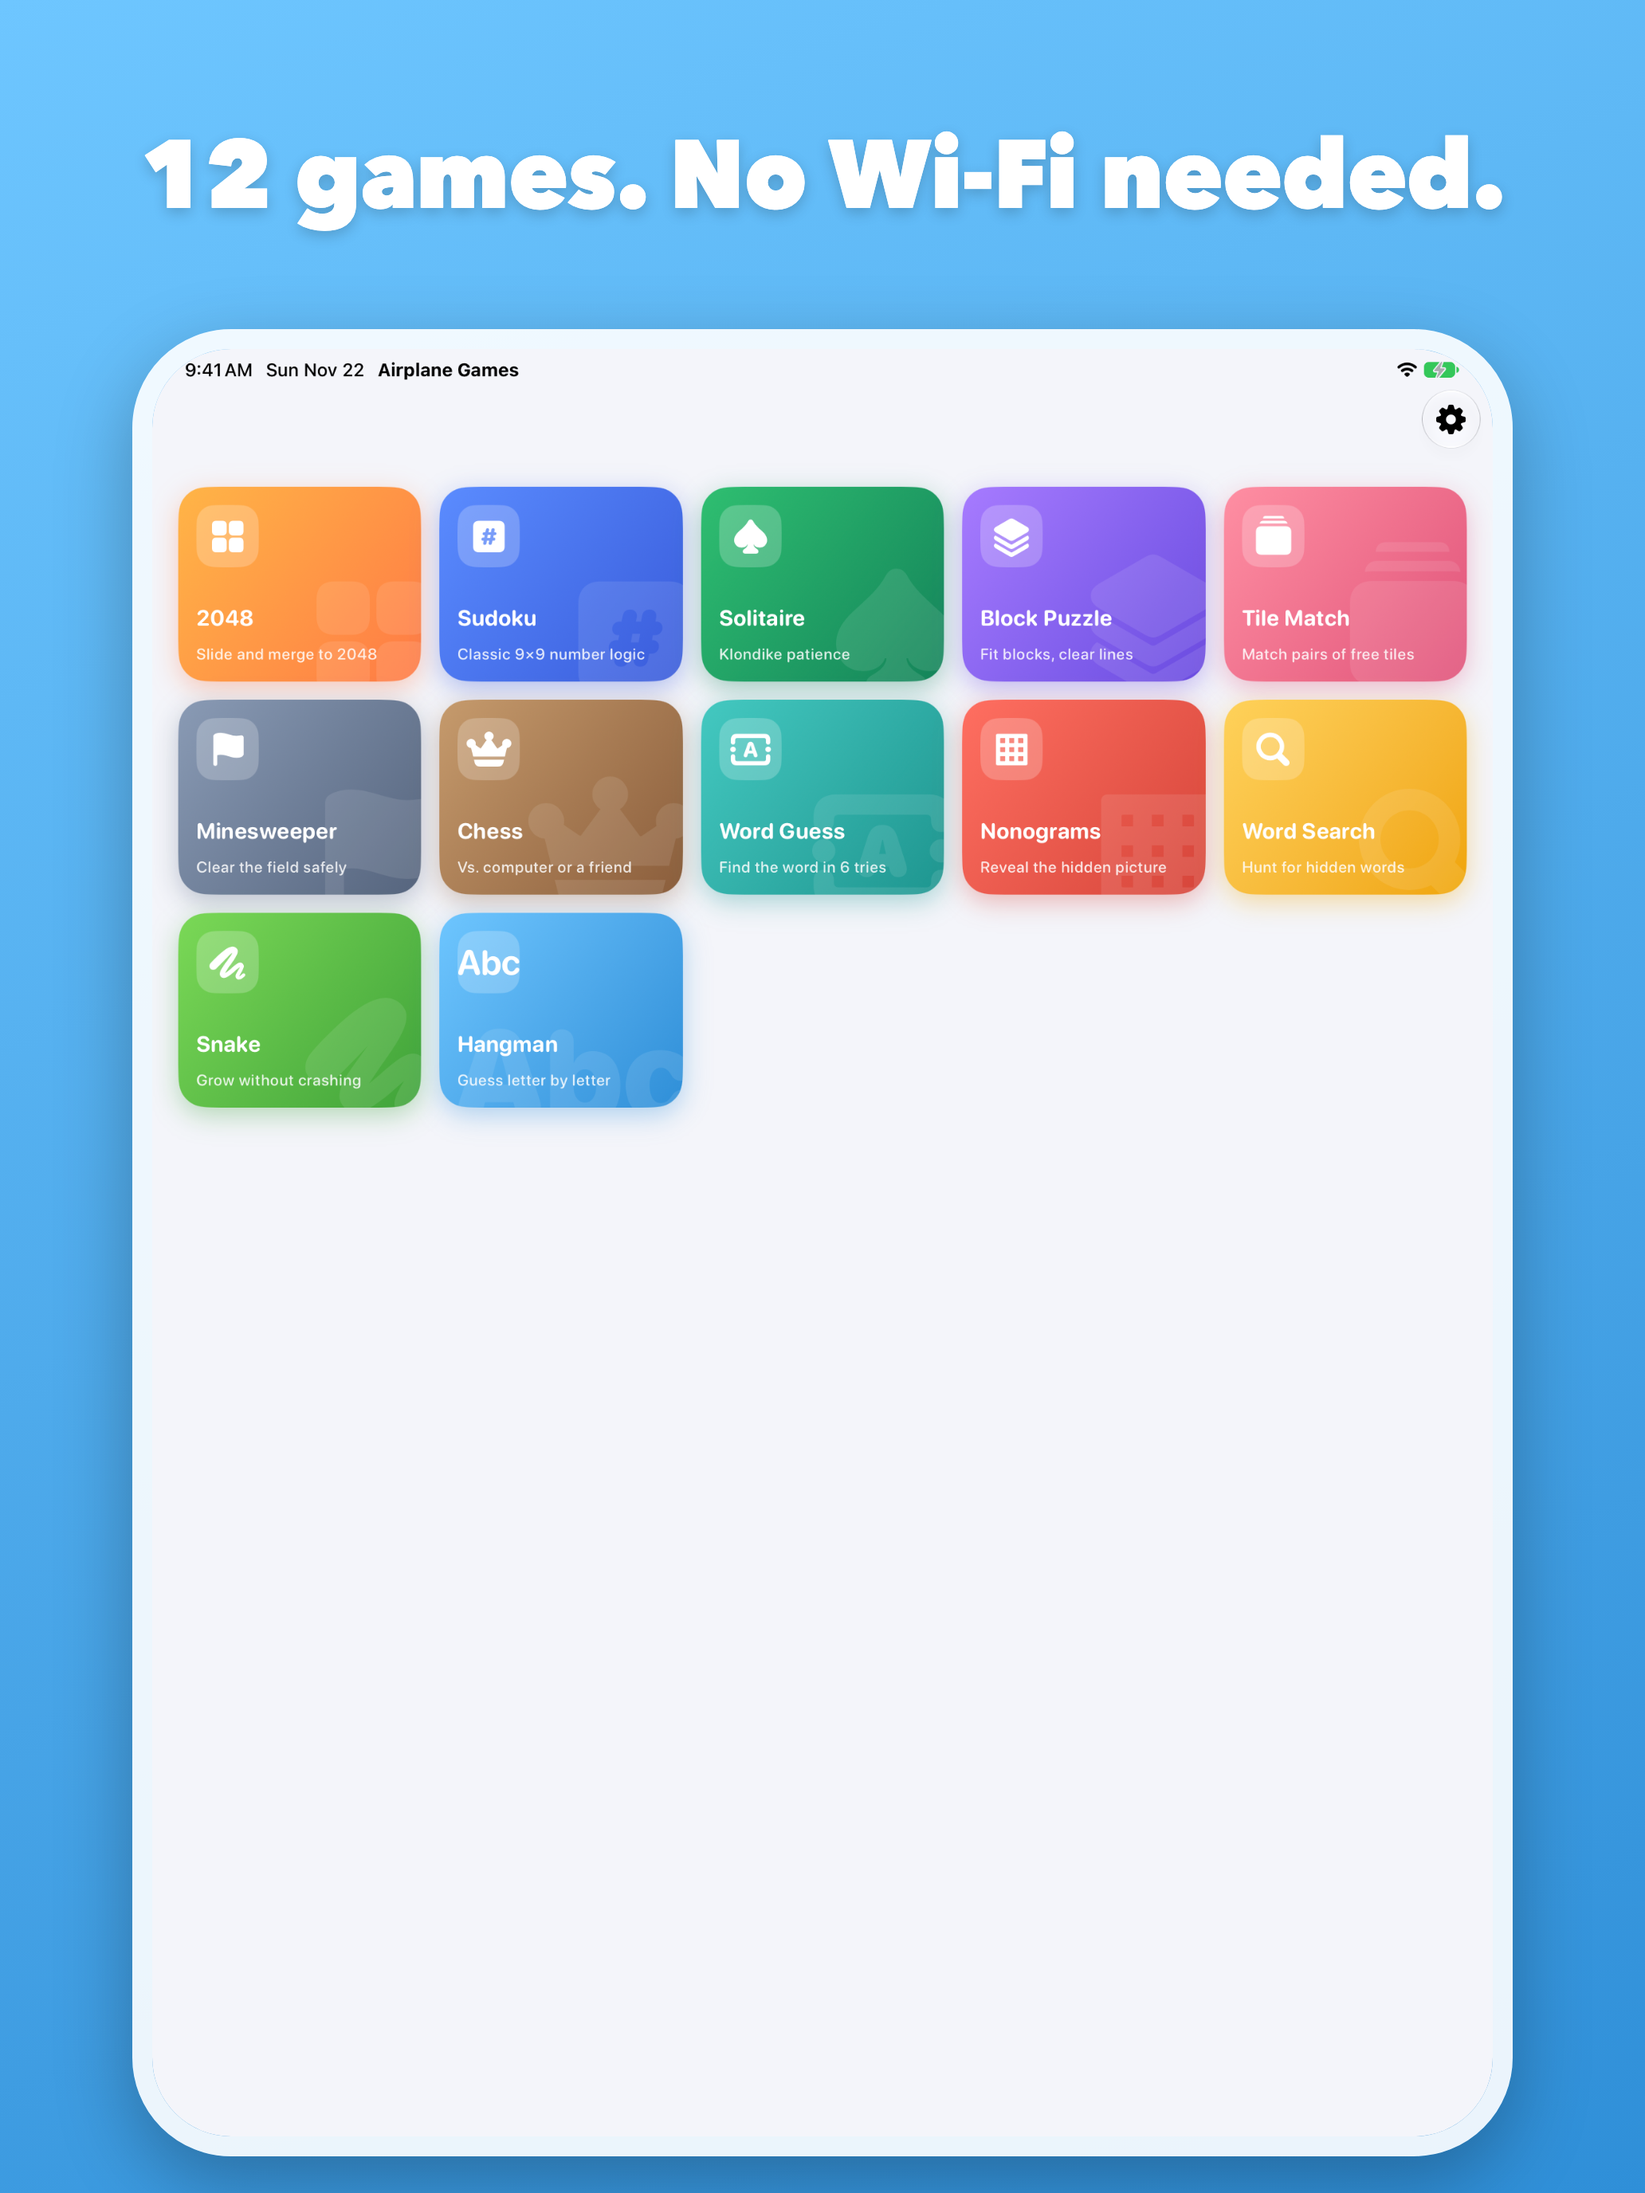
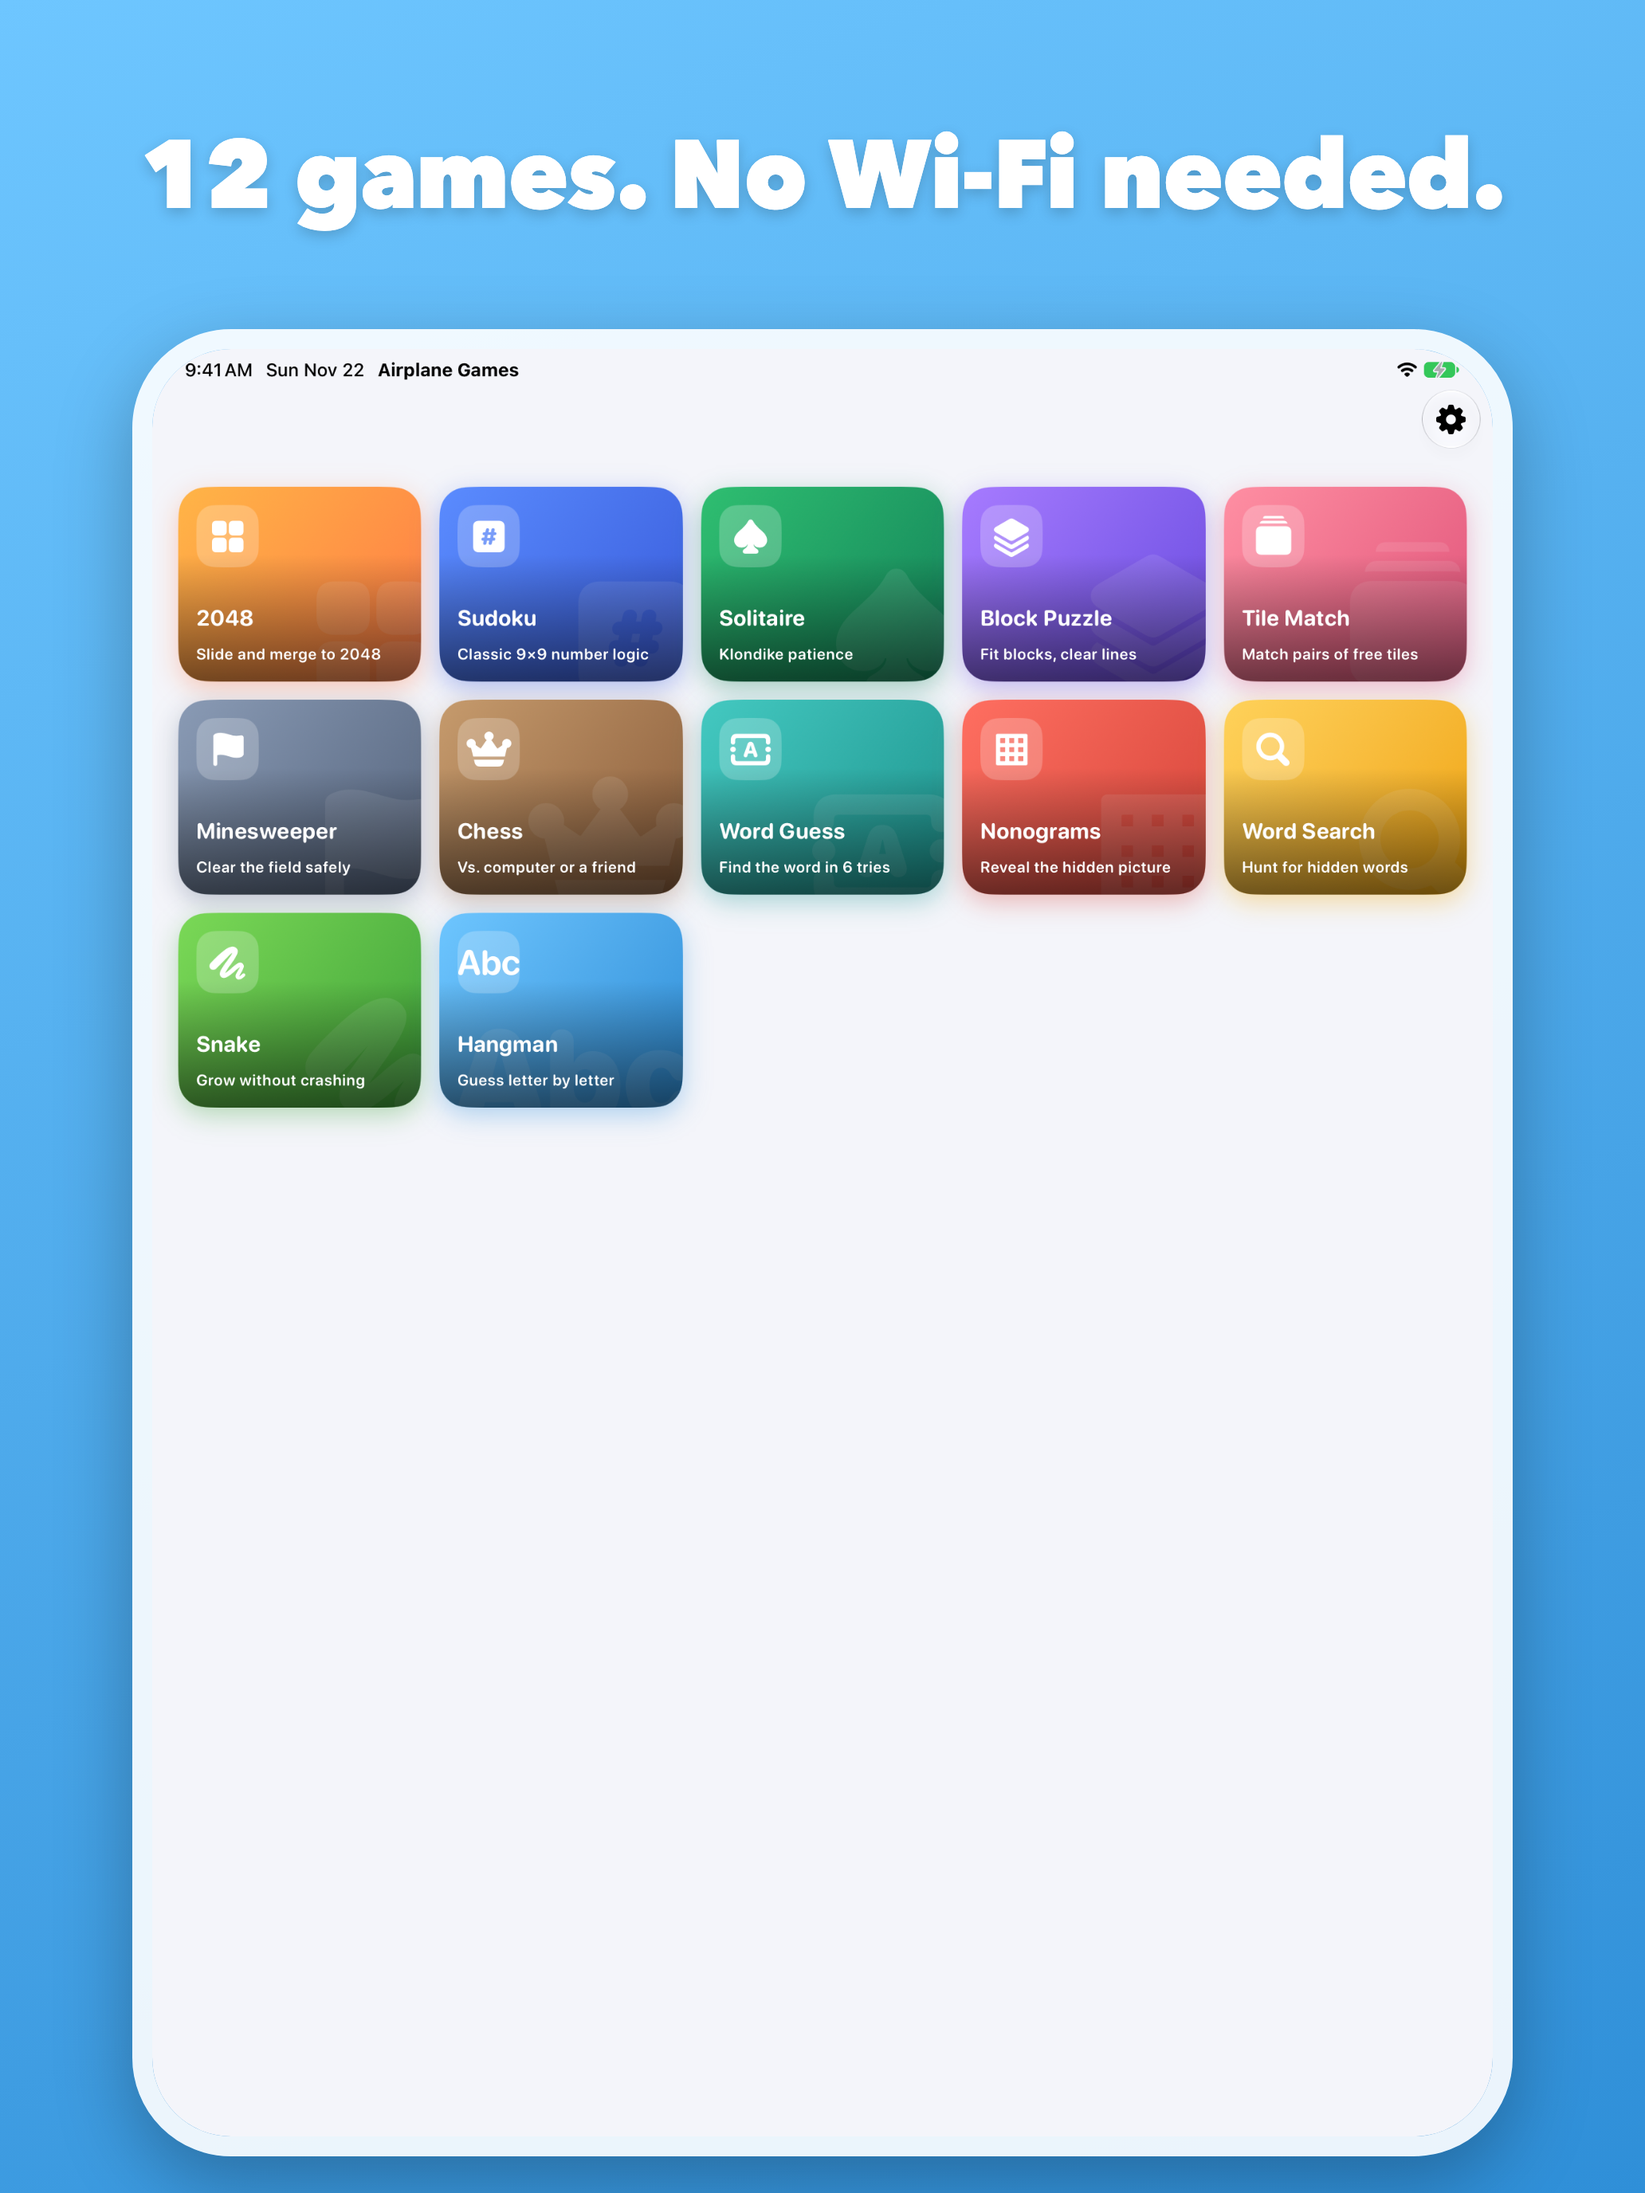
Accessibility: readable home cards, Differentiate Without Color, audit test
- Home cards darken toward the bottom so white titles reach 3:1 and captions 4.5:1
  (WCAG AA) on every card, including yellow and orange.
- "Differentiate Without Color": Word Guess tiles add a check (right spot) or arrows
  (wrong spot); Sudoku conflicts get an underline. DEBUG -differentiateWithoutColor
  previews it in the simulator.
- Snake's speed label and the About link (VoiceOver: "Source code on GitHub") fixed.
- AccessibilityAuditTests runs Xcode's audit on home, Settings, About and all 12 games;
  it fails on VoiceOver blockers and attaches the full report for each screen.
- Game guide checklist covers color-independence, cancelled gestures and the audit.

Changed region(s): [[0.093, 0.3438, 0.8992, 0.4062], [0.093, 0.25, 0.8992, 0.3125], [0.093, 0.4375, 0.4341, 0.5312]]

diff --git a/AirplaneModeGamesUITests/AccessibilityAuditTests.swift b/AirplaneModeGamesUITests/AccessibilityAuditTests.swift
@@ -1,0 +1,58 @@
+import XCTest
+
+/// Runs Xcode's accessibility audit on every screen and attaches each screen's findings to the
+/// result bundle ("a11y-<screen>").
+///
+/// Fails on issues that block VoiceOver users (missing or unreadable labels, unreachable
+/// elements, broken actions). Contrast, Dynamic Type, clipping and hit-area findings are only
+/// reported: game boards keep fixed sizes on purpose so they fit, disabled controls are dimmed
+/// on purpose, and the pixel-sampled contrast check is unreliable over decorative art.
+/// Set TEST_RUNNER_AUDIT_REPORT=1 to report everything without failing.
+@MainActor
+final class AccessibilityAuditTests: XCTestCase {
+    private var report: Bool { ProcessInfo.processInfo.environment["AUDIT_REPORT"] == "1" }
+
+    private func audit(_ app: XCUIApplication, _ screen: String) throws {
+        var lines: [String] = []
+        try app.performAccessibilityAudit { issue in
+            let element = issue.element.map { "\($0.elementType.rawValue) '\($0.identifier)' '\($0.label)'" } ?? "-"
+            lines.append("A11Y [\(screen)] \(issue.auditType.rawValue) \(issue.compactDescription) :: \(element)")
+            let reviewedByHand: XCUIAccessibilityAuditType = [.contrast, .dynamicType, .textClipped, .hitRegion]
+            return self.report || reviewedByHand.contains(issue.auditType)   // true = don't fail
+        }
+        let attachment = XCTAttachment(string: lines.joined(separator: "\n"))
+        attachment.name = "a11y-\(screen)"
+        attachment.lifetime = .keepAlways
+        add(attachment)
+    }
+
+    func testHomeAndSettings() throws {
+        let app = XCUIApplication()
+        app.launchArguments = ["-uiTesting"]
+        app.launch()
+        XCTAssertTrue(app.buttons["game.twentyFortyEight"].waitForExistence(timeout: 5))
+        try audit(app, "home")
+        app.buttons["settingsButton"].tap()
+        XCTAssertTrue(app.navigationBars["Settings"].waitForExistence(timeout: 3))
+        try audit(app, "settings")
+        app.buttons["aboutLink"].tap()
+        XCTAssertTrue(app.navigationBars["About"].waitForExistence(timeout: 3))
+        try audit(app, "about")
+    }
+
+    func testEveryGame() throws {
+        let games = ["twentyFortyEight", "sudoku", "solitaire", "blocks", "tileMatch", "minesweeper",
+                     "chess", "wordGuess", "nonograms", "wordSearch", "snake", "hangman"]
+        for game in games {
+            let app = XCUIApplication()
+            app.launchArguments = ["-uiTesting", "-openGame", game]
+            app.launch()
+            XCTAssertTrue(app.buttons["gameMenu"].waitForExistence(timeout: 10), game)
+            let cancel = app.buttons["Cancel"]
+            if cancel.waitForExistence(timeout: 1) { cancel.tap() }
+            sleep(1)
+            try audit(app, game)
+            app.terminate()
+        }
+    }
+}

diff --git a/AirplaneModeGames/Games/WordGuess/WordGuessView.swift b/AirplaneModeGames/Games/WordGuess/WordGuessView.swift
@@ -365,6 +365,8 @@ private struct LetterTile: View {
 
     @State private var angle: Double = 0
     @State private var showsResult: Bool
+    /// "Differentiate Without Color": add a shape to each result so color isn't the only signal.
+    @Environment(\.differentiateWithoutColor) private var differentiateWithoutColor
     @State private var pop = 0
 
     init(letter: Character?, state: WordGuess.LetterState?, revealDelay: Double, bounceTrigger: Int,
@@ -380,6 +382,15 @@ private struct LetterTile: View {
         _showsResult = State(initialValue: state != nil)
     }
 
+    /// Right letter, right spot: a check. Right letter, wrong spot: arrows. Not in the word: none.
+    static func symbol(_ state: WordGuess.LetterState) -> String? {
+        switch state {
+        case .correct: "checkmark"
+        case .present: "arrow.left.arrow.right"
+        default: nil
+        }
+    }
+
     var body: some View {
         let revealed = showsResult ? state : nil
         ZStack {
@@ -393,6 +404,15 @@ private struct LetterTile: View {
                     .font(.system(size: size * 0.52, weight: .bold, design: .rounded))
                     .foregroundStyle(revealed.map { palette.text($0) } ?? .primary)
                     .minimumScaleFactor(0.5)
+            }
+        }
+        .overlay(alignment: .topTrailing) {
+            if differentiateWithoutColor, let symbol = revealed.flatMap(Self.symbol) {
+                Image(systemName: symbol)
+                    .font(.system(size: size * 0.2, weight: .heavy))
+                    .foregroundStyle(.white)
+                    .padding(size * 0.07)
+                    .accessibilityHidden(true)
             }
         }
         .frame(width: size, height: size)

diff --git a/AirplaneModeGames/DesignSystem/ReduceMotion.swift b/AirplaneModeGames/DesignSystem/ReduceMotion.swift
@@ -4,19 +4,32 @@ extension EnvironmentValues {
     /// The app's effective Reduce Motion setting. Views read this instead of
     /// `accessibilityReduceMotion` so UI tests can opt in too.
     @Entry var reduceMotion = false
+    /// The app's effective "Differentiate Without Color" setting (read instead of
+    /// `accessibilityDifferentiateWithoutColor`, so DEBUG builds can force it for screenshots).
+    @Entry var differentiateWithoutColor = false
 }
 
 enum LaunchOptions {
     static let isUITesting = ProcessInfo.processInfo.arguments.contains("-uiTesting")
+    #if DEBUG
+    /// `-differentiateWithoutColor` previews that accessibility setting in the simulator.
+    static let forcesDifferentiateWithoutColor = ProcessInfo.processInfo.arguments.contains("-differentiateWithoutColor")
+    #else
+    static let forcesDifferentiateWithoutColor = false
+    #endif
 }
 
 private struct ReduceMotionProvider: ViewModifier {
     @Environment(\.accessibilityReduceMotion) private var systemReduceMotion
+    @Environment(\.accessibilityDifferentiateWithoutColor) private var systemDifferentiateWithoutColor
 
     func body(content: Content) -> some View {
         // Under UI tests, looping SwiftUI animations keep the app from ever going idle,
         // which makes XCUITest stall before every interaction.
-        content.environment(\.reduceMotion, systemReduceMotion || LaunchOptions.isUITesting)
+        content
+            .environment(\.reduceMotion, systemReduceMotion || LaunchOptions.isUITesting)
+            .environment(\.differentiateWithoutColor,
+                         systemDifferentiateWithoutColor || LaunchOptions.forcesDifferentiateWithoutColor)
     }
 }
 

diff --git a/AirplaneModeGames/Home/HomeView.swift b/AirplaneModeGames/Home/HomeView.swift
@@ -161,8 +161,8 @@ struct GameCard: View {
                     .font(.headline.weight(.bold))
                     .foregroundStyle(.white)
                 Text(game.tagline)
-                    .font(.caption.weight(.medium))
-                    .foregroundStyle(.white.opacity(0.85))
+                    .font(.caption.weight(.semibold))
+                    .foregroundStyle(.white)
                     .lineLimit(2)
                     .multilineTextAlignment(.leading)
             }
@@ -177,6 +177,14 @@ struct GameCard: View {
                             .foregroundStyle(.white.opacity(0.1))
                             .offset(x: 18, y: 18)
                             .accessibilityHidden(true)
+                    }
+                    // Darkens the lower part behind the title so white text stays readable on the
+                    // brightest cards (yellow, orange): at least 3:1 for the bold title and 4.5:1 (WCAG
+                    // AA) for the caption on every card.
+                    .overlay {
+                        LinearGradient(stops: [.init(color: .clear, location: 0.35),
+                                               .init(color: .black.opacity(0.55), location: 1)],
+                                       startPoint: .top, endPoint: .bottom)
                     }
                     .clipShape(RoundedRectangle(cornerRadius: 22, style: .continuous))
                     .shadow(color: game.accent.opacity(0.35), radius: 10, y: 6)

diff --git a/AirplaneModeGames/Games/Sudoku/SudokuBoardView.swift b/AirplaneModeGames/Games/Sudoku/SudokuBoardView.swift
@@ -152,6 +152,8 @@ struct SudokuCellView: View {
     let wave: Int
     let waveDelay: Double
     let reduceMotion: Bool
+    /// "Differentiate Without Color": conflicts also get an underline, not just red.
+    @Environment(\.differentiateWithoutColor) private var differentiateWithoutColor
 
     var body: some View {
         ZStack {
@@ -166,6 +168,14 @@ struct SudokuCellView: View {
                         SpringKeyframe(CGFloat(1), duration: 0.22)
                     }
                 }
+            if differentiateWithoutColor && isConflict && !isGiven && value != 0 {
+                Capsule()
+                    .fill(SudokuPalette.conflict)
+                    .frame(width: size * 0.42, height: max(2, size * 0.07))
+                    .frame(maxHeight: .infinity, alignment: .bottom)
+                    .padding(.bottom, size * 0.1)
+                    .accessibilityHidden(true)
+            }
         }
         .frame(width: size, height: size)
     }

diff --git a/AirplaneModeGames/Games/Snake/SnakeView.swift b/AirplaneModeGames/Games/Snake/SnakeView.swift
@@ -110,12 +110,15 @@ struct SnakeView: View {
             StatPill(title: "Best", value: "\(model.best)")
             Spacer(minLength: 0)
             VStack(alignment: .trailing, spacing: 2) {
-                Label(model.speed.title, systemImage: Self.symbol(for: model.speed))
+                Label {
+                    Text(model.speed.title).foregroundStyle(.primary)
+                } icon: {
+                    Image(systemName: Self.symbol(for: model.speed)).foregroundStyle(accent)
+                }
                 Text(model.wallMode == .wrap ? "Wrap-around" : "Walls")
                     .foregroundStyle(.secondary)
             }
             .font(.caption.weight(.semibold))
-            .foregroundStyle(accent)
             .accessibilityElement(children: .combine)
         }
         .animation(.snappy, value: model.state.score)

diff --git a/AirplaneModeGames/Settings/AboutView.swift b/AirplaneModeGames/Settings/AboutView.swift
@@ -27,6 +27,7 @@ struct AboutView: View {
                         .foregroundStyle(.secondary)
                     Link("github.com/guilhermechapiewski/airplane-games-app", destination: Self.repositoryURL)
                         .font(.footnote)
+                        .accessibilityLabel("Source code on GitHub")
                 }
             }
             Section {

diff --git a/docs/GAME_GUIDE.md b/docs/GAME_GUIDE.md
@@ -52,6 +52,11 @@ put a game-local helper in your own folder instead and mention the need in your 
 - [ ] Polished, original visuals with tasteful animations (spring/easeOut, 0.1–0.35s). Respect
       Reduce Motion via `@Environment(\.reduceMotion)` (not `\.accessibilityReduceMotion`; UI tests
       force it on so looping animations never stall XCUITest).
+- [ ] Color is never the only signal: when `@Environment(\.differentiateWithoutColor)` is on, add a
+      shape or mark (Word Guess ✓/↔, Sudoku conflict underline). Preview with `-differentiateWithoutColor`.
+- [ ] Every drag tracks a `@GestureState` (`.tracking(_:)` + `.onGestureCancelled`) so a cancelled
+      gesture never leaves state stuck.
+- [ ] `AccessibilityAuditTests` passes for the game (it opens every game automatically).
 - [ ] Looks great in **light and dark mode**, on small iPhones (iPhone 17e / SE size), large
       iPhones, and **iPad** (center the board, cap its width, use space well).
 - [ ] VoiceOver: meaningful labels/values for cells and controls; custom actions where gestures
